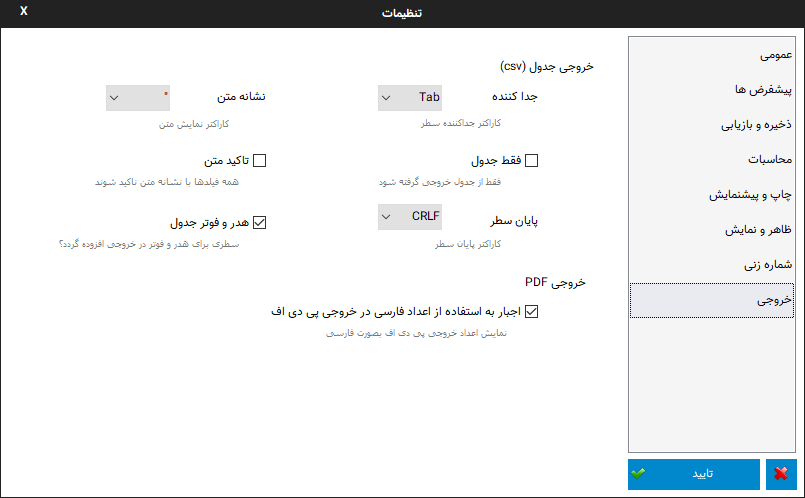
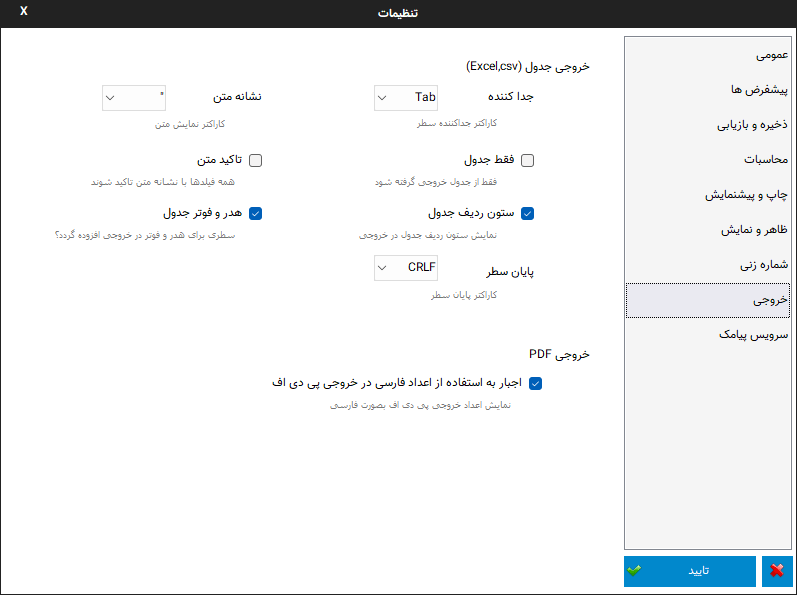
B1043

diff --git a/docs/source/conf.py b/docs/source/conf.py
@@ -24,7 +24,7 @@ copyright = '2024, Mohsensoft'
 author = 'Mohsen Bahraminejad, Mohammad reza khalifeh'
 
 # The short X.Y version
-version = '4.6'
+version = '4.7'
 # The full version, including alpha/beta/rc tags
 release = '.rst'
 

diff --git a/docs/source/window-bank.rst b/docs/source/window-bank.rst
@@ -41,7 +41,7 @@
 **ویرایش کالا یا خدمات :** برای این کار کافیست کالای مورد نظر را انتخاب نموده ، فیلد های مورد نظر را که در بالای لیست میباشد ویرایش کرده و :code:`ذخیره` را انتخاب نمایید .
 
 
-**حذف کالا خدمات :** ابتدا کالا یا خدمات مورد نظر را انتخاب کرده و "حذف" را انتخاب نمایید .
+**حذف کالا خدمات :** ابتدا کالا یا خدمات مورد نظر را انتخاب کرده، سپس "حذف" را انتخاب نمایید . برای انتخاب چند مورد بصورت همزمان کافیست از کلید :code:`Shift` یا :code:`Ctrl` به همراه کلیک کردن استفاده نمایید، همچنین گزینه هایی در منوی راست کلیک لیست برای انواع دیگر انتخاب قرار داده شده اند.
 
 
 با کلیک بر روی تصویر کالا، تصویری بزرگتر نمایش داده خواهد شد.
@@ -53,7 +53,7 @@
 
 **انتخاب کالا یا خدمات :** علاوه بر انتخاب کالا یا خدمات از این پنجره میتوانید این کار را بصورت سریع در پنجره اصلی و در جدول با امکان :ref:`انبار سریع<qbank>` داشته باشید، در انبار داشتن تعداد سفارش بیش از صفر به منزله انتخاب برای افزودن به برگه می باشد . این امر به چهار صورت امکان پذیر است :
 
-* کافیست برای افزایش مقدار سفارش روی هر مورد دلخواه کلیک نمایید تا تعداد سفارش آن افزایش یابد . برای کاهش تعداد سفارش راست کلیک کفایت می کند .
+* کافیست برای افزایش مقدار سفارش روی هر مورد دلخواه کلیک نمایید تا تعداد سفارش آن افزایش یابد . با نگه داشتن کلید :code:`Alt` و کلیک بر روی مورد میتوانید تعداد سفارش آن را کم کنید .
 * کالا یا خدمات مورد نظر را انتخاب نموده و با استفاده از "تعداد" تعداد سفارش مورد نظر را تعیین کنید .
 * کالا یا خدمات مورد نظر را انتخاب نموده و در کادر "تعداد سفارش" تعداد مورد نظر را وارد کرده و کلید "اینتر"( :code:`Enter` ) را بفشارید .
 * بعد از جستجو بدون ترک کادر جستجو می توانید با هر بار زدن کلید "اینتر" ( :code:`Enter` ) یکی به تعداد سفارش گزینه انتخاب شده بیفزایید.
@@ -174,6 +174,7 @@
 **تغییر نام انبار**: توسط این گزینه میتوانید نام انباری که در قسمت انبار انتخاب شده است را تغییر دهید، پس از انتخاب این گزینه پنجره ای برای وارد کردن نام جدید باز خواهد شد.
 
 **انتقال به انبار دیگر**: این گزینه برای انتقال مورد انتخابی کنونی به انباری دیگر است، پس از انتخاب، پنجره ای برای انتخاب انبار مقصد نمایش داده خواهد شد.
+برای انتخاب چند مورد بصورت همزمان کافیست از کلید :code:`Shift` یا :code:`Ctrl` به همراه کلیک کردن استفاده نمایید، سپس از منوی راست کلیک لیست نیز برای انتقال میتوانید استفاده نمایید.
 
 **مرتب سازی :** در منوی پنجره میتوانید توسط دو گزینه مرتب سازی اطلاعات انبار را بر اساس کد صعودی و نزولی مرتب نمایید .
 

diff --git a/docs/source/mtax.rst b/docs/source/mtax.rst
@@ -132,6 +132,9 @@
 
 این انتخاب ستونها برای دفعات آینده ذخیره میشود و نیازی به تنظیم مجدد آنها نیست.
 
+|newflag| پس از تائید ورود اطلاعات پنجره ای شامل اطلاعات برداشت شده از اکسل نمایش داده می شود تا اطلاعاتی که برای ارسال برداشت و تبدیل شده اند نمایش داده شوند ، در این قسمت میتوانید با دوبار کلیک بر روی هر سطر اقلام آن صورتحساب را مشاهده نمایید.
+سپس با انتخاب گزینه "تائید" عملیات ارسال شروع خواهد شد.
+
 **فرمت اکسل** ورودی در این روش بسیار ساده است، در هر سطر از فایل اکسل مشخصات خریدار شامل : نوع شخص از لحاظ حقیقی یا حقوقی، شماره اقتصادی و کدپستی در صورت حقیقی بودن و یک قلم کالا با مشخصات شناسه کالا و قیمت و تعداد و سایر موارد در صورت نیاز میباشد
 
 اگر در فایل اکسل شماره فاکتور تکرار شده باشد تکرارهای بعد بعنوان اقلام بعدی فاکتور اول در نظر گرفته میشود و فاکتور جدید برای آن در نظر گرفته نمیشود، بعبارت دیگر همه سطرهایی که شماره فاکتور همسان دارند یک فاکتور با قلام همه این سطر ها در نظر گرفته میشود.

diff --git a/docs/source/changes-log.rst b/docs/source/changes-log.rst
@@ -6,6 +6,18 @@
 تغییرات ویرایش ها
 ==========================
 
+**ویرایش 6.5**
+-------------------
+* افزوده شدن امکان انتقال گروهی اقلام انبار به انبارهای دیگر. |bank|
+* افزوده شدن امکان حذف گروهی اقلام انبار.
+* افزوده شدن امکان افزایش سفارش بصورت گروهی در پنجره انبار.
+* افزوده شدن امکان دبل کلیک برای انتخاب مشتری در پنجره مشتری/متقاضی/پروژه. |cust|
+* افزوده شدن امکان حذف یا نمایش ستون ردیف در خروجی اکسل. |settings_export|
+* افزوده شدن امکان نمایش اطلاعات برداشت شده از فایل اکسل در ارسال گروهی سامانه مودیان قبل از ارسال. |mtax|
+* رفع برخی مشکلات پنجره انبار در آپدیت قبلی.
+* نمایش چپ به راست فیلدها در برگه های زبان لاتین و مانند آن.
+
+
 **ویرایش 6.4**
 -------------------
 * افزوده شدن امکان ورود مشخصات صادر کننده تا 255 عدد. |tabcom|

diff --git a/docs/source/window-settings.rst b/docs/source/window-settings.rst
@@ -214,7 +214,7 @@
 
 در این پنجره گزینه های مختلفی برای تنظیمات خروجی وجود دارد:
 
-**خروجی جدول**: در این قسمت گزینه هایی برای خروجی csv وجود دارد که میبایست بنابر نیاز نرم افزار مقصد که قصد ارسال اطلاعات به آن را دارید این موارد را تنظیم نمایید.
+**خروجی جدول**: در این قسمت گزینه هایی برای خروجی csv و اکسل وجود دارد که میبایست بنابر نیاز نرم افزار مقصد که قصد ارسال اطلاعات به آن را دارید این موارد را تنظیم نمایید.
 
 **اجبار به استفاده از اعداد فارسی در خروجی پی دی اف :** اگر نیاز ندارید که در خروجی پی دی اف اعداد بصورت کاراکترهای فارسی نمایش داده شوند این گزینه را غیر فعال نمایید.
 
